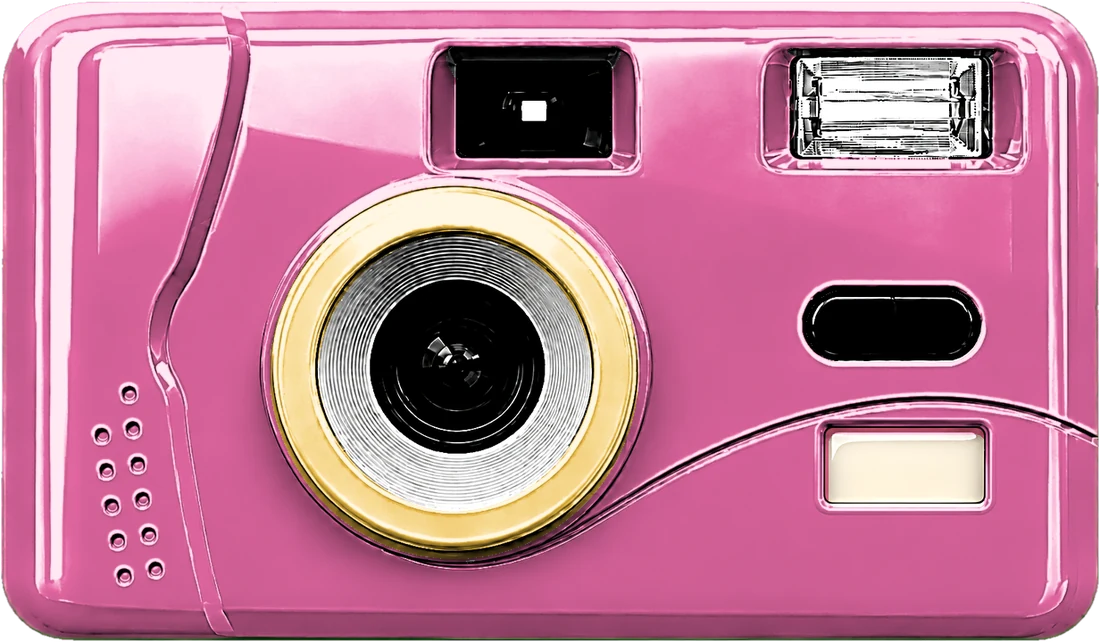
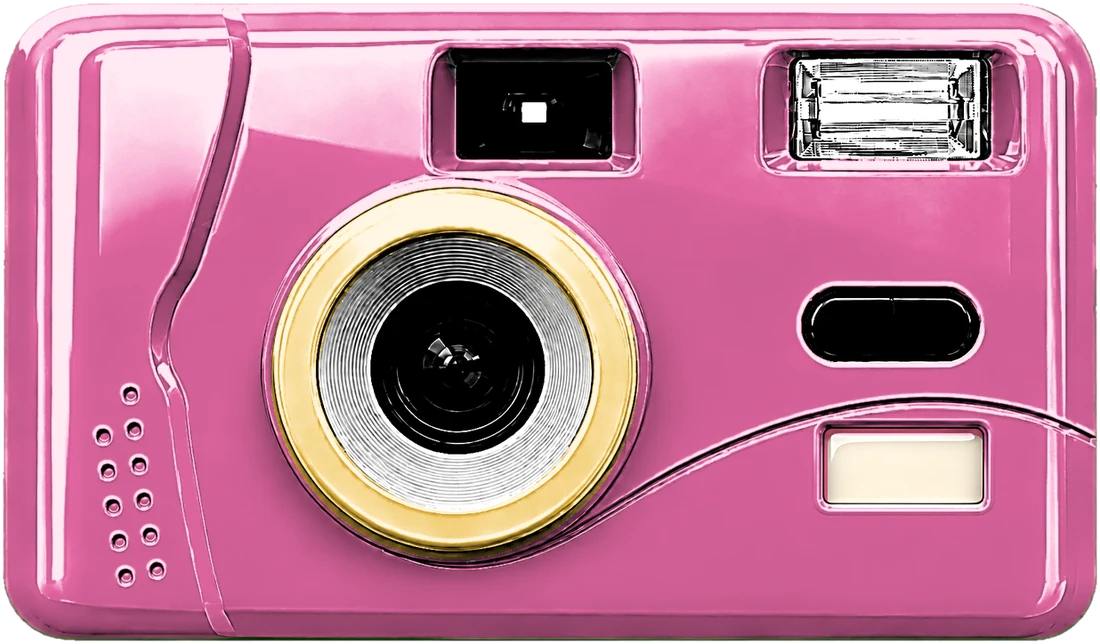
fix(home): 残り枚数をカメラの窓に表示し吹き出しで指す・ヒーローのマステ削除・黄色カメラ・スケルトンカメラ追加
- ヒーローのカメラを黄色（ピンクの輪）に。残り枚数はアプリと同じ位置の窓に出し、吹き出しで指す
- あそびかた 02 を「シール付きのスケルトンカメラ」に差し替え（01 はピンクのカメラ）
- 「大事にしていること」の吹き出し落書きを見出しの右上へ（PC で宙に浮いていた）
- 撮り切り後に「タップしてみて」が重ならないように

diff --git a/client/src/index.css b/client/src/index.css
@@ -589,41 +589,79 @@ button {
     opacity: 0;
   }
 }
-.toy-label {
-  position: absolute;
-  left: 2%;
-  bottom: -6px;
-  display: inline-flex;
-  align-items: center;
-  gap: 0.35em;
-  padding: 6px 12px;
-  background: var(--white);
-  border: 2px solid var(--ink);
-  border-radius: 12px;
-  transform: rotate(3deg);
-  font-size: 1.05rem;
-  box-shadow: 3px 3px 0 var(--ink);
+/* カウンター窓の中の数字。窓の位置はアプリの実測値（中心 x 82.2% / y 72.8%・高さ 10.1%） */
+.toy-cam {
+  container-type: inline-size;
 }
-.toy-label .led {
-  font-size: 1.3rem;
+.toy-count {
+  position: absolute;
+  left: 82.2%;
+  top: 72.8%;
+  transform: translate(-50%, -50%);
+  font-family: Menlo, "SF Mono", Consolas, monospace;
+  font-weight: 900;
+  font-size: 4.6cqw;
+  line-height: 1;
+  color: #1c1715;
+  letter-spacing: -0.02em;
   animation: bump 0.3s var(--ease-pop);
 }
 @keyframes bump {
   from {
-    transform: scale(1.25);
+    transform: translate(-50%, -50%) scale(1.3);
   }
   to {
-    transform: scale(1);
+    transform: translate(-50%, -50%) scale(1);
   }
 }
-.toy-tape {
+/* 窓を指す吹き出し */
+.toy-bubble {
   position: absolute;
-  width: 34%;
-  left: 2%;
-  top: -3%;
-  transform: rotate(-12deg);
-  pointer-events: none;
-  opacity: 0.95;
+  right: 3%;
+  top: 40%;
+  pointer-events: none; /* カメラのタップを邪魔しない */
+  padding: 6px 14px;
+  background: var(--white);
+  border: 2px solid var(--ink);
+  border-radius: 999px;
+  font-size: 1.1rem;
+  white-space: nowrap;
+  box-shadow: 3px 3px 0 var(--ink);
+  transform: rotate(4deg);
+}
+.toy-bubble b {
+  font-family: var(--font-display);
+  font-weight: 400;
+  font-size: 1.25em;
+  color: var(--pink);
+  margin: 0 0.1em;
+}
+.toy-bubble::before,
+.toy-bubble::after {
+  content: "";
+  position: absolute;
+  right: 26px;
+  bottom: -16px;
+  border: 8px solid transparent;
+  border-top: 11px solid var(--ink);
+  border-bottom: 0;
+  transform: skewX(18deg);
+}
+.toy-bubble::after {
+  bottom: -11px;
+  border-top-color: var(--white);
+}
+.hero-art:has(.toy.is-done) .hero-hint {
+  opacity: 0;
+}
+@media (max-width: 859px) {
+  /* スマホはカメラが小さいので、吹き出しも小さく・上に。窓を隠さない */
+  .toy-bubble {
+    top: 24%;
+    right: 2%;
+    font-size: 0.92rem;
+    padding: 4px 11px;
+  }
 }
 .toy-env {
   position: absolute;
@@ -659,8 +697,8 @@ button {
   opacity: 0.25;
   filter: grayscale(0.4);
 }
-.toy.is-done .toy-label,
-.toy.is-done .toy-tape {
+.toy.is-done .toy-bubble,
+.toy.is-done .toy-count {
   opacity: 0;
   transition: opacity 0.3s ease;
 }
@@ -720,7 +758,7 @@ button {
   pointer-events: none;
 }
 .step-pic {
-  height: 150px;
+  height: 170px;
   display: flex;
   align-items: center;
   justify-content: center;
@@ -764,6 +802,7 @@ button {
 .why-head {
   position: relative;
 }
+/* 見出しの右上から「大事にしていること」を指す吹き出し */
 .dood-bubble {
   width: clamp(80px, 12vw, 130px);
   right: 0;
@@ -771,10 +810,13 @@ button {
   --r: 8deg;
 }
 @media (min-width: 860px) {
+  .why-head .h2 {
+    display: inline-flex;
+  }
   .dood-bubble {
-    right: -10px;
-    top: auto;
-    bottom: -120px;
+    right: auto;
+    left: calc(100% - 150px);
+    top: -48px;
   }
 }
 .why-list {

diff --git a/client/src/pages/Home.tsx b/client/src/pages/Home.tsx
@@ -39,25 +39,23 @@ function CameraToy() {
         disabled={done}
       >
         <img
-          src="/brand/camera-pink.webp"
+          src="/brand/camera-yellow.webp"
           alt=""
           width={1100}
-          height={642}
+          height={644}
           fetchPriority="high"
           decoding="async"
         />
-        <span key={flash} className={flash ? "toy-flash" : ""} aria-hidden="true" />
+        {/* 残り枚数はアプリと同じく、カメラのカウンター窓の中に出す */}
+        <span key={`n${bump}`} className="toy-count" aria-hidden="true">
+          {left}
+        </span>
+        <span key={`f${flash}`} className={flash ? "toy-flash" : ""} aria-hidden="true" />
       </button>
 
-      <div className="toy-label" aria-live="polite">
-        <span className="hand">のこり</span>
-        <span key={bump} className="led">
-          {String(left).padStart(2, "0")}
-        </span>
-        <span className="hand">まい</span>
-      </div>
-
-      <img className="toy-tape" src="/brand/tape-yellow.webp" alt="" width={600} height={206} aria-hidden="true" />
+      <p className="toy-bubble hand" aria-live="polite">
+        のこり <b>{left}</b> まい
+      </p>
 
       <div className="toy-env" aria-hidden={!done}>
         <img src="/brand/envelope.webp" alt="" width={900} height={606} />
@@ -75,17 +73,17 @@ const STEPS = [
     n: "01",
     title: "カメラをつくる",
     body: "「何枚撮る？」「いつ現像する？」を決めて、仲間を招待。",
-    img: "/brand/camera-yellow.webp",
-    w: 700,
-    h: 409,
+    img: "/brand/camera-pink.webp",
+    w: 1100,
+    h: 644,
   },
   {
     n: "02",
     title: "みんなで撮る",
     body: "撮ったら残り枚数が減るだけ。中身は、まだだれにも見えません。",
-    img: "/brand/sticker-retropop.webp",
-    w: 520,
-    h: 305,
+    img: "/brand/camera-clear.webp",
+    w: 1100,
+    h: 621,
   },
   {
     n: "03",
